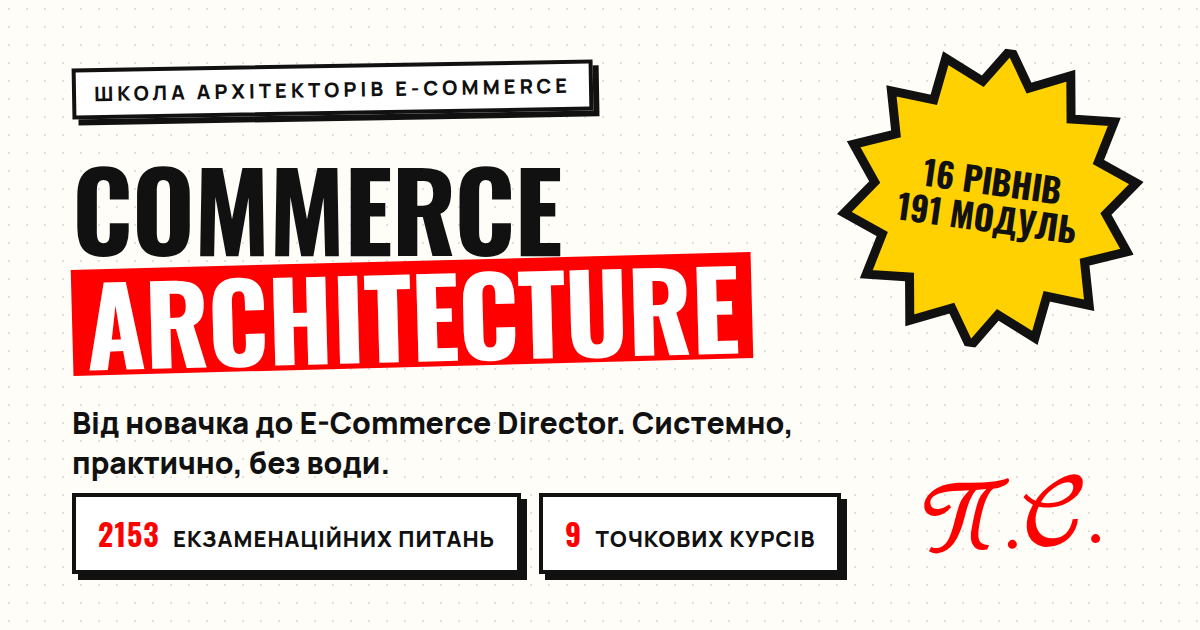
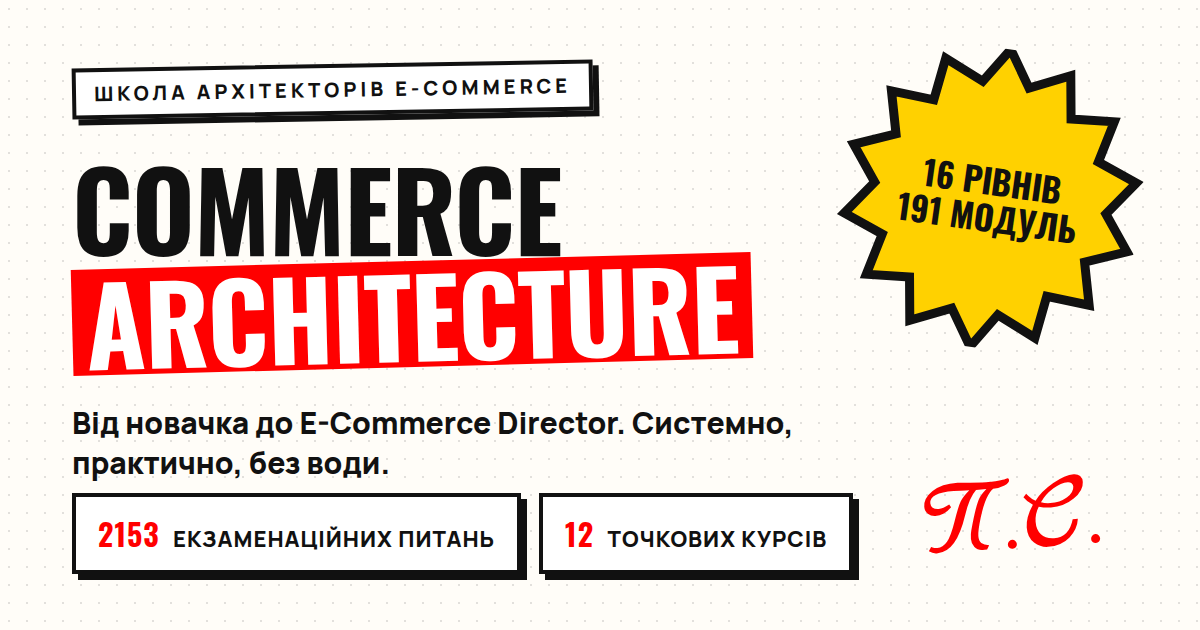
Add three expert-tier targeted courses from expanded program
- Product Management ($3,300), Omnichannel & B2B Commerce ($3,500),
  AI Commerce ($3,900) - 8 weeks each, levels 13-15, with hands-on
  practice lists and expert badge on cards
- Capstone (level 16) stays Full-exclusive; Full crossed-out price
  updated to $22,000 - the exact sum of all separately sold blocks
- Courses page gets an "Expert" filter; og-image and README updated
  (12 targeted courses)

Claude-Session: https://claude.ai/code/session_01FutKSPppMPP32JkMjrgHG7

Changed region(s): [[0.4625, 0.7841, 0.74, 0.9349]]

diff --git a/school/src/data/courses.ts b/school/src/data/courses.ts
@@ -16,6 +16,7 @@ export interface Course {
   duration: string; // строк навчання
   practice: string[]; // практикуми, шаблони і hands-on всередині курсу
   next?: string; // id наступного курсу в апсел-ланцюжку «Куди далі»
+  expert?: boolean; // преміум-курс з експертного блоку (рівні 13–15)
   featured?: boolean;
 }
 
@@ -87,10 +88,10 @@ export const COURSES: Course[] = [
     levels: [1, 2, 3, 4, 5, 6, 7, 8, 9, 10, 11, 12, 13, 14, 15, 16],
     audience: 'Тим, хто йде повний шлях з нуля до директора й архітектора',
     price: 10100,
-    oldPrice: 11300,
+    oldPrice: 22000,
     duration: '15 місяців',
     practice: [
-      '4 ексклюзивні блоки, яких немає в жодному іншому курсі: Product Management, Omnichannel і B2B, AI Commerce, Capstone',
+      'Усі блоки програми, включно з експертними (окремо вони коштують $22,000) — і Capstone, який не продається окремо',
       'Capstone-проєкт: 24 артефакти власного e-commerce бізнесу — від бізнес-моделі й фінмоделі до IT-архітектури і стратегії на 3 роки',
       'Захист проєкту перед «власником/інвестором» — фінальний екзамен ролі директора',
       'Проміжні «ворота» між блоками: екзамен після кожного треку тримає темп 15 місяців',
@@ -262,6 +263,65 @@ export const COURSES: Course[] = [
     ],
     next: 'full',
     result: 'Продаєте експертизу, ведете кілька проєктів, будуєте бренд',
+  },
+
+  // -------- Експертні курси (рівні 13–15) --------
+  {
+    id: 'product-management',
+    kind: 'targeted',
+    name: 'Product Management в e-commerce',
+    hook: 'Магазин — це продукт. Керуй ним як продакт.',
+    levels: [13],
+    audience: 'Керівникам e-commerce, продактам і власникам, що будують продуктову культуру',
+    price: 3300,
+    duration: '8 тижнів',
+    practice: [
+      'Product roadmap свого магазину: від vision до кварталу',
+      'Пріоритизація реального бэклогу за RICE/ICE із захистом рішень',
+      'North Star Metric і дерево продуктових метрик для свого бізнесу',
+      'Скрипт discovery-інтервʼю і перевірка продуктової гіпотези',
+    ],
+    next: 'ai-commerce',
+    expert: true,
+    result: 'Статус Head of Product: стратегія, discovery, експерименти, метрики',
+  },
+  {
+    id: 'omni-b2b',
+    kind: 'targeted',
+    name: 'Omnichannel і B2B Commerce',
+    hook: 'Один клієнт. Один склад. Одна ціна. Всюди.',
+    levels: [14],
+    audience: 'Ритейлу з офлайном, брендам із дилерами, B2B-виробникам',
+    price: 3500,
+    duration: '8 тижнів',
+    practice: [
+      'Omnichannel P&L: модель економіки всіх каналів разом',
+      'Blueprint Click & Collect і Ship From Store для своєї мережі',
+      'ТЗ на B2B-портал: customer-specific pricing, approval workflows, EDI',
+      'Схема єдиного customer ID між офлайном, сайтом і маркетплейсами',
+    ],
+    next: 'full',
+    expert: true,
+    result: 'Статус Omnichannel Lead: єдина система каналів і B2B-продажі',
+  },
+  {
+    id: 'ai-commerce',
+    kind: 'targeted',
+    name: 'AI Commerce',
+    hook: 'Поки конкуренти «тестують ChatGPT», ти будуєш AI-систему.',
+    levels: [15],
+    audience: 'Директорам і власникам, що впроваджують AI системно, а не хаотично',
+    price: 3900,
+    duration: '8 тижнів',
+    practice: [
+      'AI maturity assessment свого бізнесу і карта use-case-ів з ROI',
+      'Специфікація пілотного AI-агента: від сервісу до agentic commerce',
+      'Чек-лист видимості бренду в AI-пошуку: GEO/AEO, LLM citations',
+      'Шаблон AI governance: політика, ризики, контроль якості',
+    ],
+    next: 'full',
+    expert: true,
+    result: 'Статус AI-Driven Director: AI-стратегія, агенти, персоналізація, GEO',
   },
 ];
 

diff --git a/school/src/data/program.ts b/school/src/data/program.ts
@@ -177,7 +177,7 @@ export const LEVELS: Level[] = [
     questions: 50,
     track: 'expert',
     summary:
-      'Фінальний проєкт замість теорії: бізнес-модель, аналіз ринку, стратегії продукту/ціни/маркетингу/CRM, P&L і фінмодель, IT- і data-архітектура, оргструктура, KPI tree, roadmap на 12 місяців і стратегія на 3 роки — із захистом перед «власником/інвестором».',
+      'Доступний лише у Повному шляху. Фінальний проєкт замість теорії: бізнес-модель, аналіз ринку, стратегії продукту/ціни/маркетингу/CRM, P&L і фінмодель, IT- і data-архітектура, оргструктура, KPI tree, roadmap на 12 місяців і стратегія на 3 роки — із захистом перед «власником/інвестором».',
   },
 ];
 
@@ -191,5 +191,5 @@ export const TRACKS: { id: TrackId; label: string; range: string }[] = [
   { id: 'base', label: 'Базовий блок', range: 'Рівні 1–4' },
   { id: 'middle', label: 'Середній блок', range: 'Рівні 5–8' },
   { id: 'advanced', label: 'Просунутий блок', range: 'Рівні 9–12' },
-  { id: 'expert', label: 'Експертний блок', range: 'Рівні 13–16 · лише у Повному шляху' },
+  { id: 'expert', label: 'Експертний блок', range: 'Рівні 13–16 · вершина програми' },
 ];

diff --git a/school/src/components/CourseCard.tsx b/school/src/components/CourseCard.tsx
@@ -16,10 +16,20 @@ export default function CourseCard({ course, index = 0 }: { course: Course; inde
       <div className="flex items-start justify-between gap-3 mb-4">
         <span
           className={`inline-block comic-border px-2.5 py-1 text-[11px] font-extrabold uppercase tracking-[0.15em] ${
-            course.featured ? 'bg-white text-ink' : course.kind === 'general' ? 'bg-sun' : 'bg-paper'
+            course.featured
+              ? 'bg-white text-ink'
+              : course.expert
+                ? 'bg-ink text-white'
+                : course.kind === 'general'
+                  ? 'bg-sun'
+                  : 'bg-paper'
           }`}
         >
-          {course.kind === 'general' ? 'Загальний курс' : 'Точковий курс'}
+          {course.expert
+            ? 'Експертний курс ★'
+            : course.kind === 'general'
+              ? 'Загальний курс'
+              : 'Точковий курс'}
         </span>
         <span
           className={`text-[12px] font-extrabold uppercase tracking-wider whitespace-nowrap ${

diff --git a/school/src/pages/Courses.tsx b/school/src/pages/Courses.tsx
@@ -3,17 +3,23 @@ import { COURSES, type CourseKind } from '../data/courses';
 import CourseCard from '../components/CourseCard';
 import { PageHead, Pop, Section } from '../components/comic';
 
-type Filter = 'all' | CourseKind;
+type Filter = 'all' | CourseKind | 'expert';
 
 const FILTERS: { id: Filter; label: string }[] = [
   { id: 'all', label: 'Усі' },
   { id: 'general', label: 'Загальні треки' },
   { id: 'targeted', label: 'Точкові курси' },
+  { id: 'expert', label: 'Експертні ★' },
 ];
 
 export default function Courses() {
   const [filter, setFilter] = useState<Filter>('all');
-  const list = COURSES.filter((c) => filter === 'all' || c.kind === filter);
+  const list = COURSES.filter((c) => {
+    if (filter === 'all') return true;
+    if (filter === 'expert') return c.expert === true;
+    if (filter === 'targeted') return c.kind === 'targeted' && !c.expert;
+    return c.kind === filter;
+  });
 
   return (
     <>

diff --git a/school/README.md b/school/README.md
@@ -32,7 +32,7 @@ UI-кіт — `src/components/comic.tsx`.
 - Смислова база (позиціонування, місія, візія, цінності, FAQ) — `src/data/school.ts`.
 - Програма — `src/data/program.ts`, з документа Ecommerce_Training_ByLevels_v10:
   12 рівнів · 114 модулів · 1325 питань.
-- Курси — `src/data/courses.ts`: 4 загальні треки + 9 точкових курсів
+- Курси — `src/data/courses.ts`: 4 загальні треки + 12 точкових курсів (з них 3 експертні)
   із практикумами, шаблонами та апсел-ланцюжком «Куди далі».
 - Форма заявки відкриває mailto на пошту школи.
 
